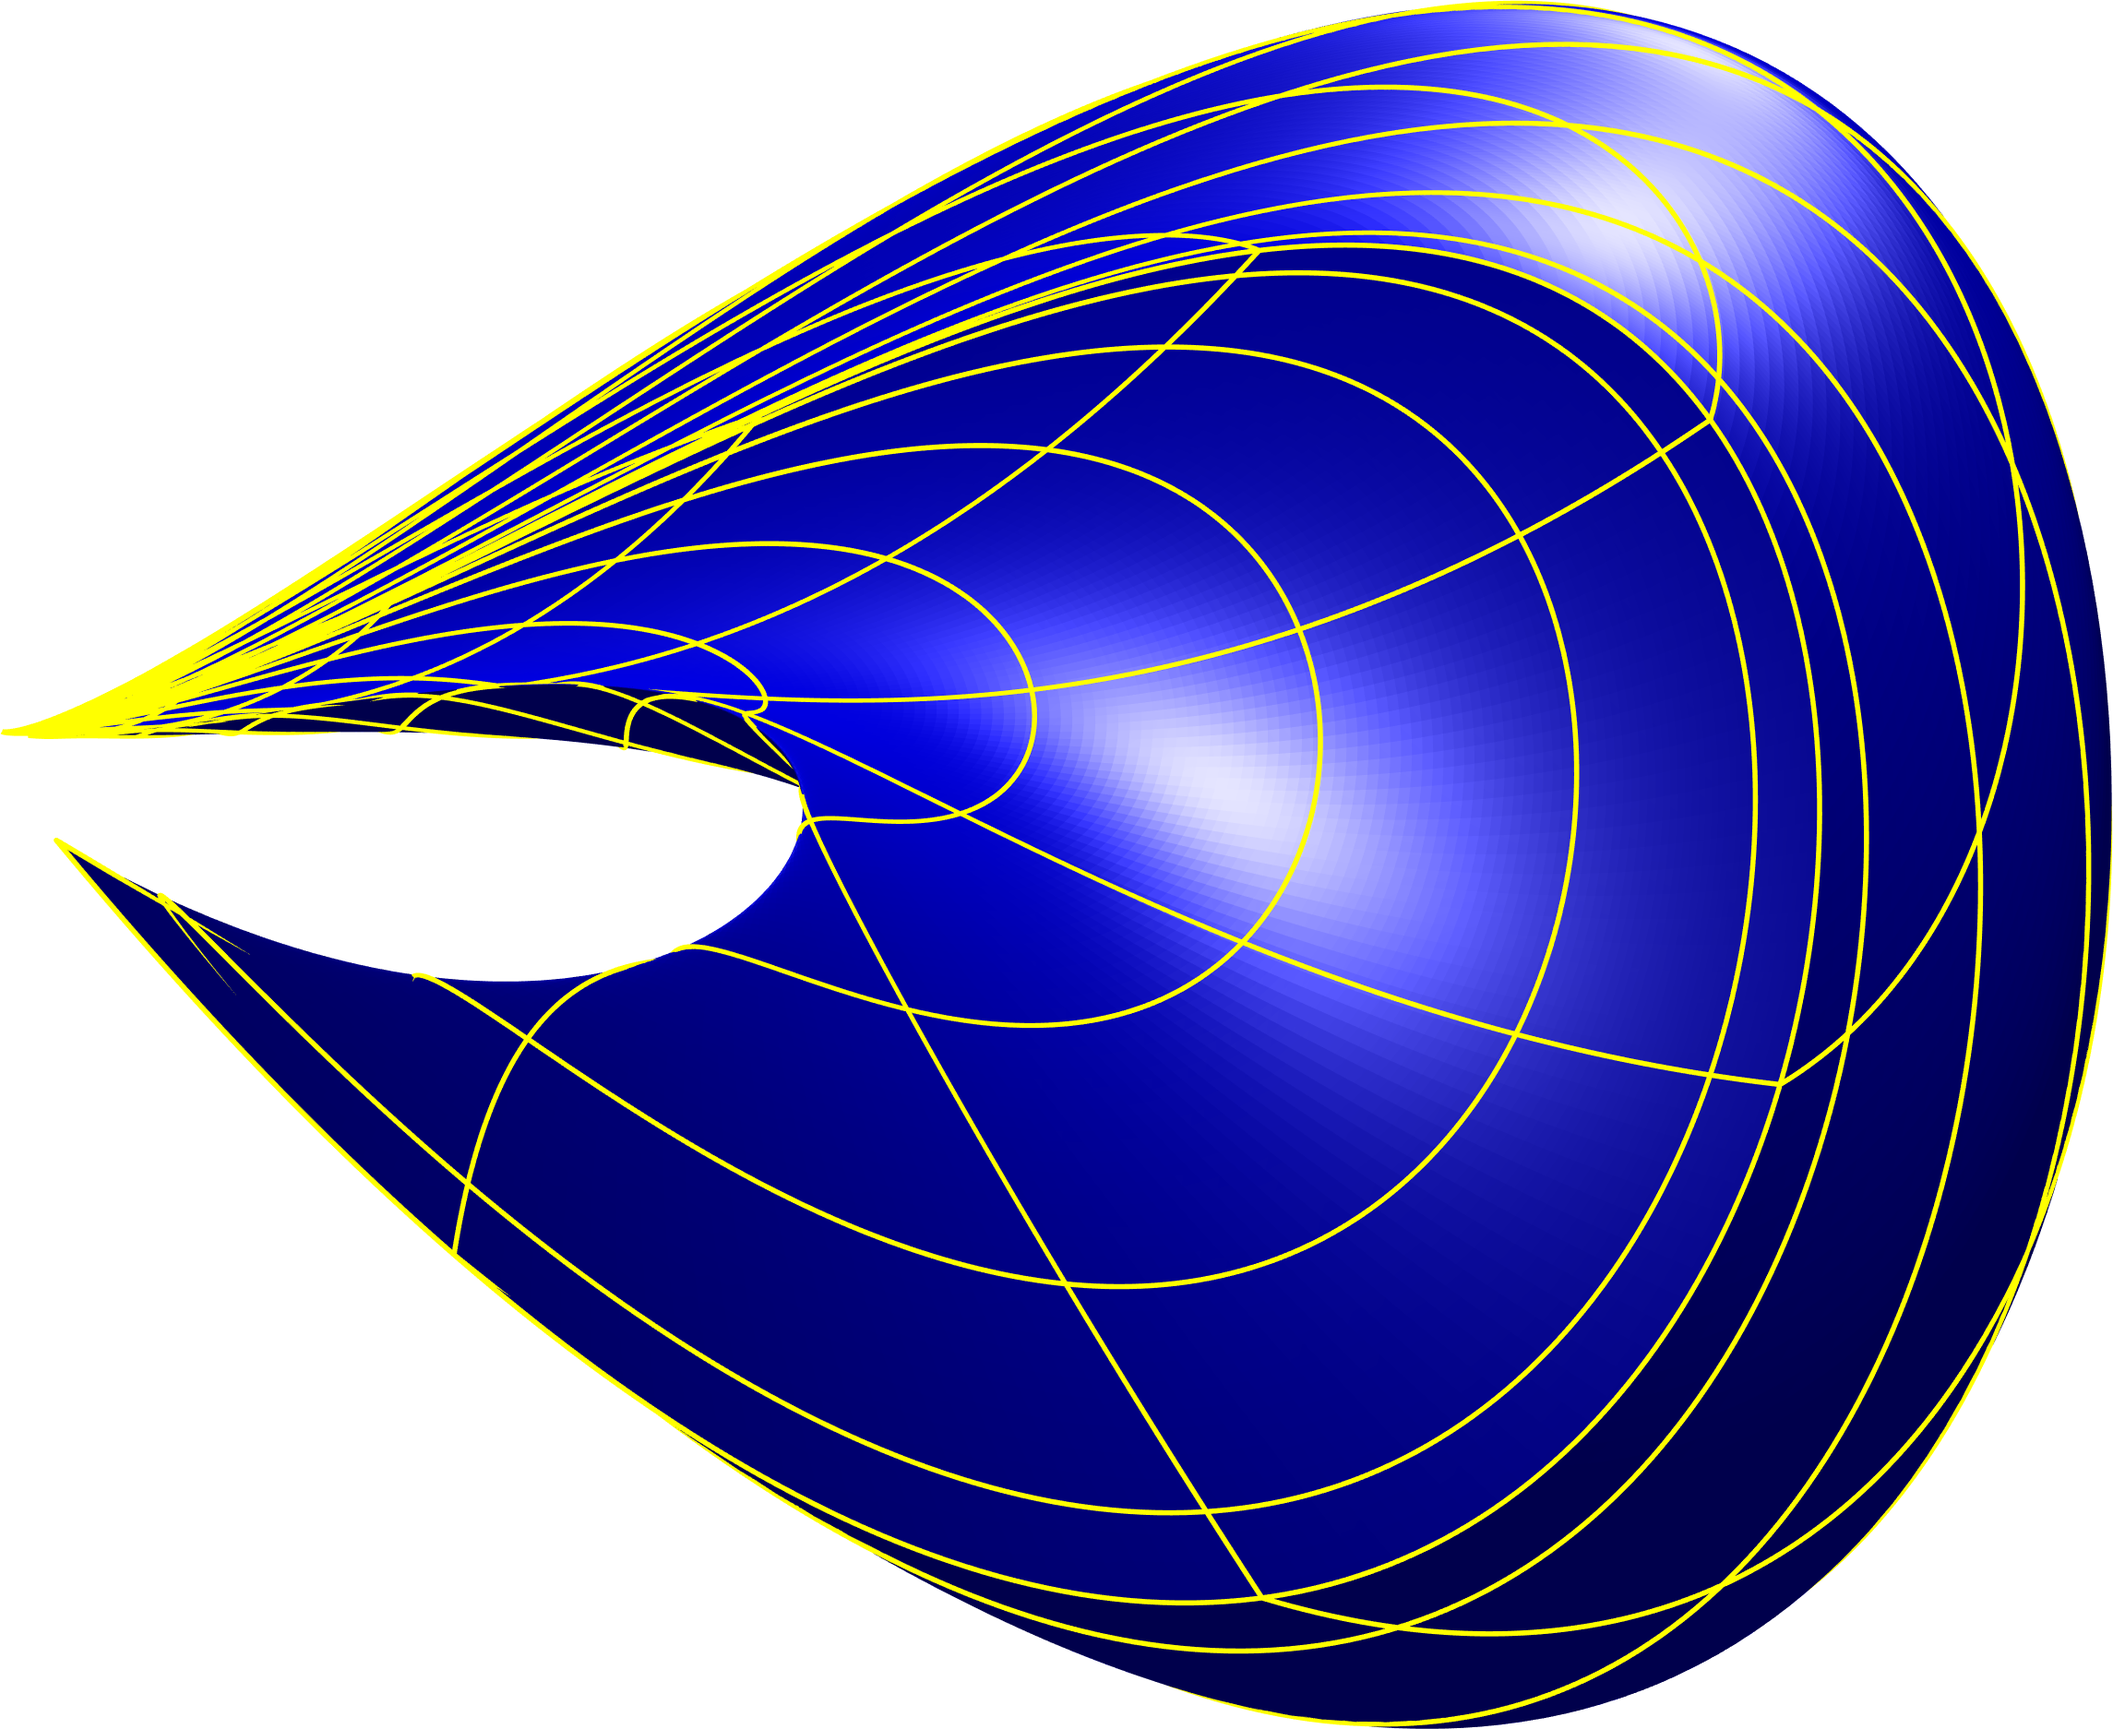
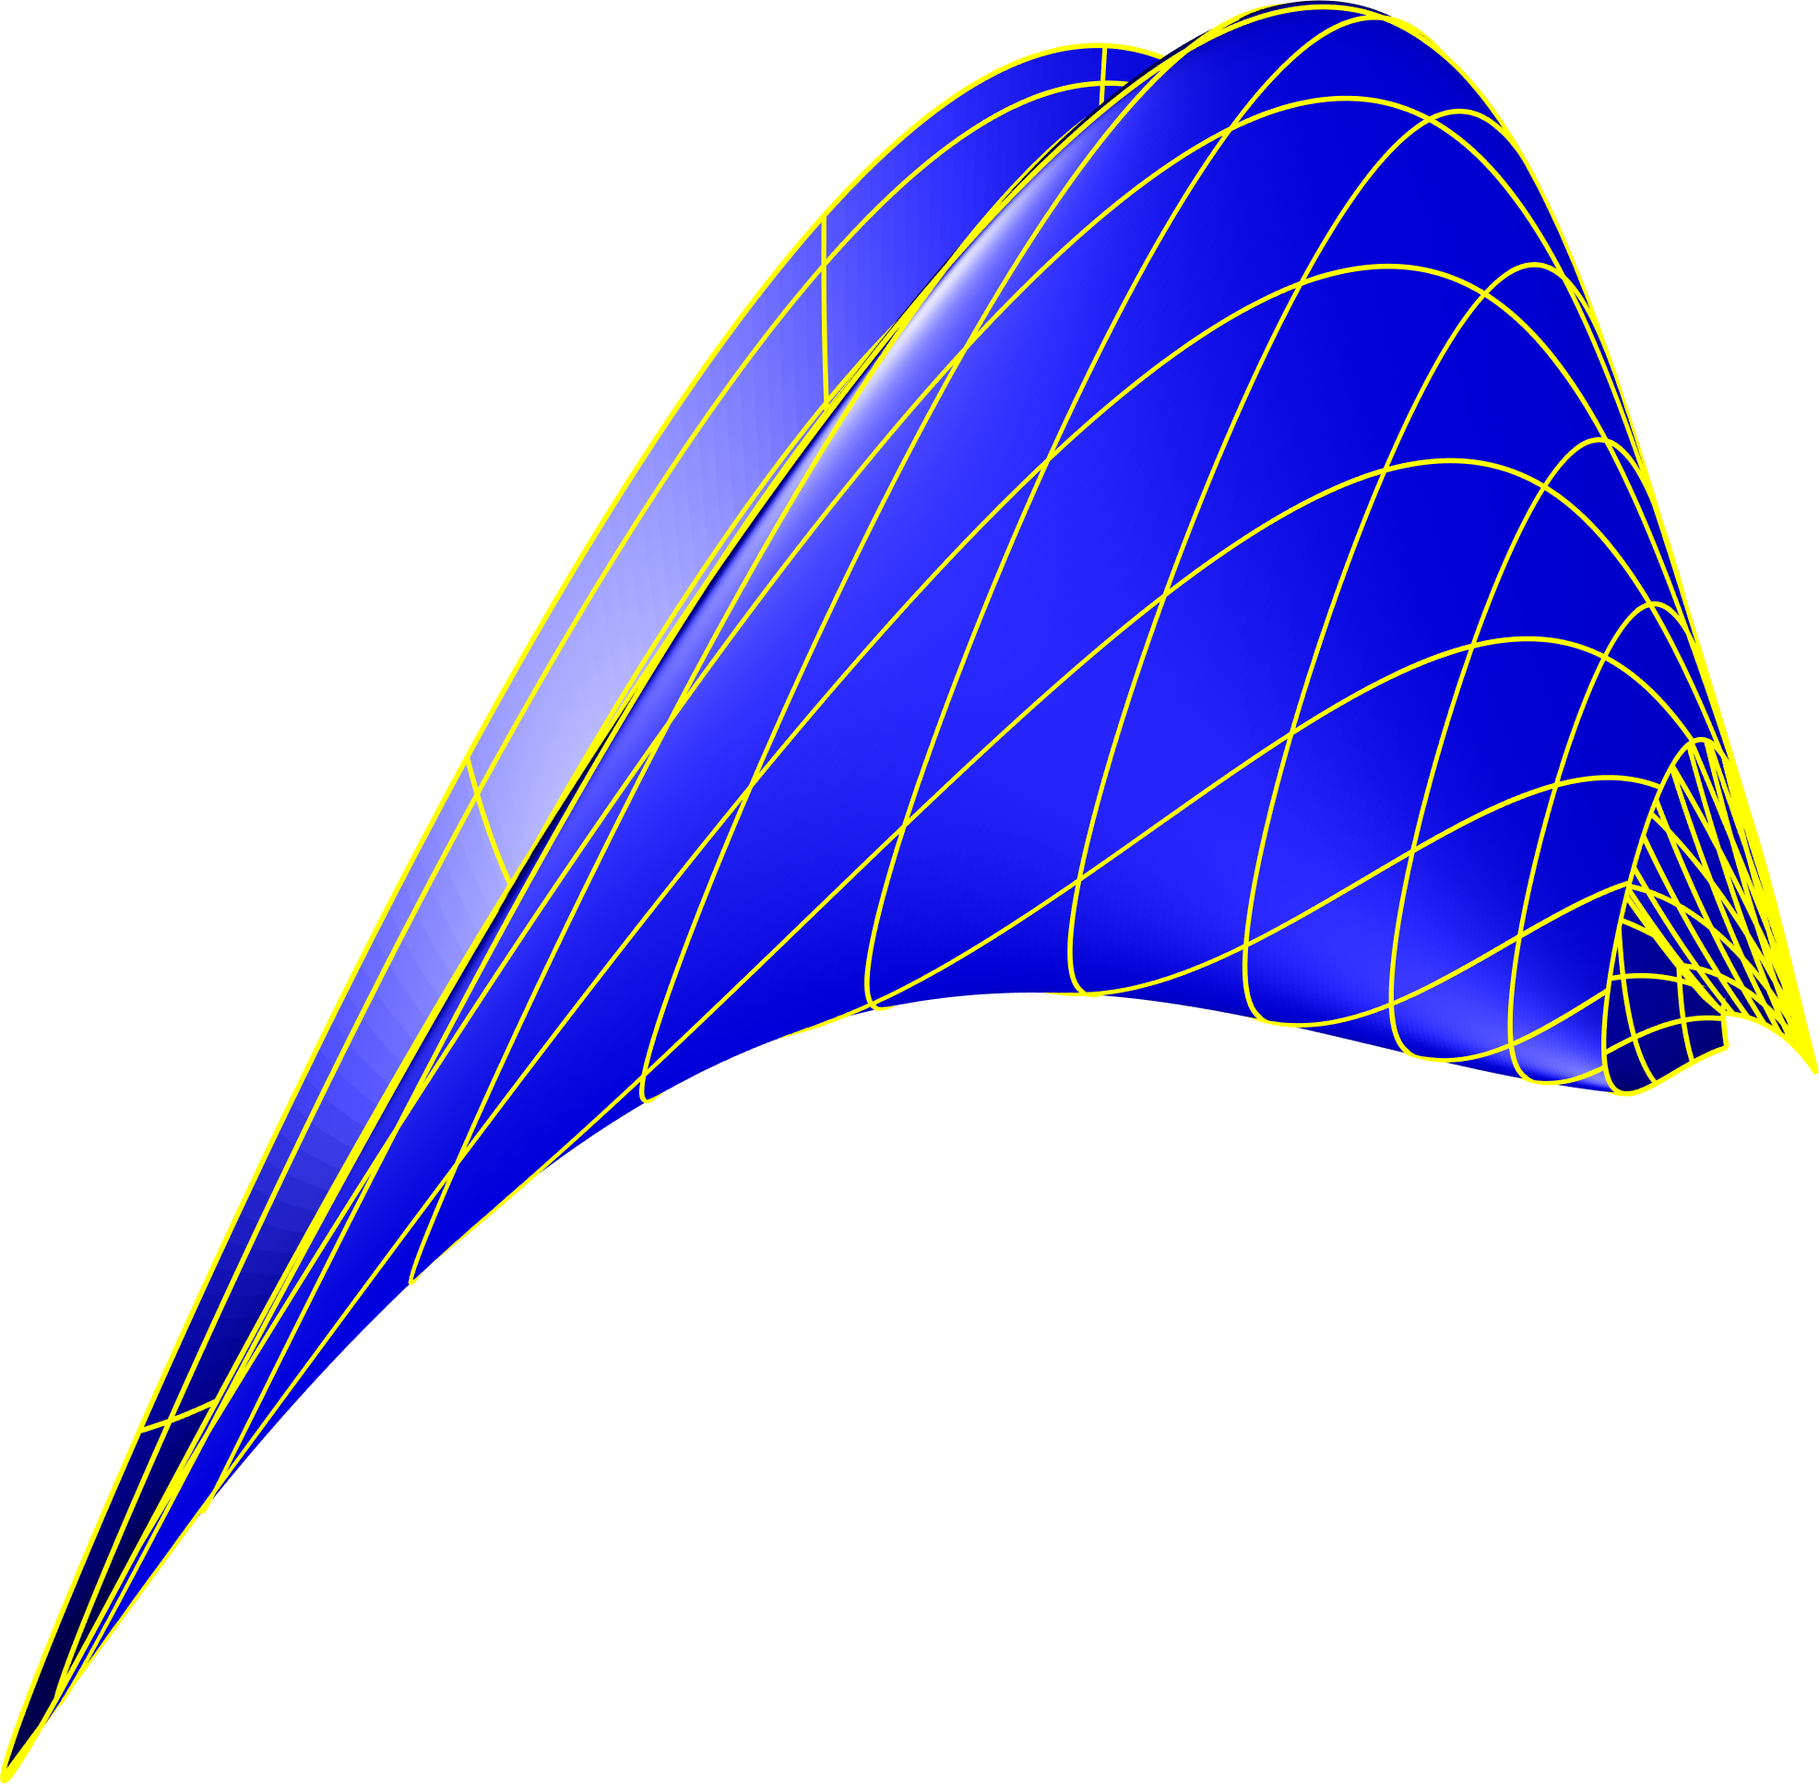
Similarity and E(2) done

diff --git a/paper/newpaper.tex b/paper/newpaper.tex
@@ -124,7 +124,12 @@ where $\bar{x}_x = \frac{\partial \varphi_1}{\partial x}(x, y)$, et cetera. %It 
 %translations, E(2), Sim(2), SA(2), A(2), PSL(2,C), PSL(3,R), Diff\_con, Diff\_vol, Diff
 \subsection{Example signatures}
 
-In this paper our aim is develop the mathematical underpinnings of constructing differential invariant signatures for images under the action of planar Lie groups. However, as we develop the signature for each group, we will provide an example of the type of surface that the signature defines. Note that these will generally be three-dimensional representation of the planar image. 
+In this paper our aim is develop the mathematical underpinnings of
+constructing differential invariant signatures for images under the action
+of planar Lie groups. However, as we develop the signature for each group,
+we will provide an example of the type of surface that the signature
+defines. Note that these will generally be three-dimensional representation
+of the planar image. 
 
 The image we use is defined on $[-1,1] \times [-1,1]$ to be:
 
@@ -134,9 +139,9 @@ f(x, y) = \exp(-2x^2 - 4\sin^2(y + 0.5x^2))
 
 The function is depicted as a greyscale image in Figure~\ref{fig:function}.
 On the left the image itself is shown, while on the right a version with a
-regular grid superimposed is given. This is useful for visualising both the
-transformation and how the image is mapped into the three-dimensional
-signature surface.
+regular grid superimposed is given. We will use this function throughout,
+using the grid to help visualise both the transformation and how the image
+is mapped into the three-dimensional signature surface. 
 
 \begin{figure}
   \centering
@@ -162,16 +167,19 @@ spatial derivatives. These three quantities can be used as coordinates in a
 new space, where the two image points will correspond. Computing these
 coordinates for all image points will define a surface in the new
 three-dimensional space, and the two images will produce the same surface,
-which we call the signature. 
+which we call the signature, $\mathcal{I}(f)(x, y) = \left(I_1, I_2,
+I_3\right)$ where $I_1 = f, I_2 = f_x, I_3 = f_y$.
 
 Figure~\ref{fig:T2} shows (a) the original image, (b) the translated image
 under the transformation $(x,y) \mapsto (x + 0.1, y - 0.2)$, (c) the
 signature of one of them, (d) the superimposed pair of signatures. The
 yellow lines in (c) correspond to where the yellow grid from (a) has been
-mapped to on the signature surface. In (d), notice that as some of the
-image has moved out of frame, there are parts of the signature near its
-boundary that do not overlap.
-
+mapped to on the signature surface. The parts of the surface where the mesh
+gets close together are where the function and its derivatives are tending
+towards zero. This occurs around the boundary of our test image and so all
+of these points are close together in the signature space. In (d), notice
+that as some of the image has moved out of frame, there are parts of the
+signature surfaces of the two images that do not overlap.
 
 \begin{figure}
   \centering
@@ -188,7 +196,6 @@ boundary that do not overlap.
   image (before translation). (d) the signature after the
   translation superimposed.}\label{fig:T2}
 \end{figure}
-
 
 \subsection{Relevant Literature}
 
@@ -246,14 +253,23 @@ SURF and that kind of crap
 \section{Differential invariants through tensor contraction}
 \label{sec:contraction}
 
-While we avoid the use of tensors in most of this study, there is a notable exception to be made for the Euclidean transformation group $E(2)$. In this setting we can restrict ourselves to \emph{Cartesian tensors}, where we need make no distinction between covariance and contravariance as they are equivalent. We therefore use subscript indices exclusively.
+While we avoid the use of tensors in most of this study, there is a notable
+exception to be made for the Euclidean transformation group $E(2)$. In this
+setting we can restrict ourselves to \emph{Cartesian tensors}, where we
+need make no distinction between covariance and contravariance as they are
+equivalent. We therefore use subscript indices exclusively.
 
 In this setting, a Euclidean transformation acting on $\mathbb{R}^2$ is given
 by an expression of the form:
 \begin{equation*}
   \bar{x}_i = a_{ij}x_j + b_j,
 \end{equation*}
-using the Einstein summation convention. The orthogonality condition is that $a_{ik}a_{jk} = a_{ki}a_{kj} = \delta_{ij}$.
+using the Einstein summation convention. The orthogonality condition is
+that $a_{ik}a_{jk} = a_{ki}a_{kj} = \delta_{ij}$. A Euclidean
+transformation $\varphi \colon \mathbb{R}^2 \to \mathbb{R}^2$ can also be
+written in matrix form as $\bar{\mathbf{x}} = \varphi(\mathbf{x}) =
+U\mathbf{x} + \mathbf{t}$ where the matrix $U$ satisfies $U^TU = I$ and
+$\mathbf{t} \in \mathbb{R}^2$.
 
 With respect to $\mathbb{R}^2$, a Cartesian tensor of rank $p$, or $p$-tensor is a $2^p$-tuple of real numbers $C_{i_1\ldots i_p}$ whose components transform under a Euclidean transformation as:
 \begin{equation*}
@@ -261,30 +277,34 @@ With respect to $\mathbb{R}^2$, a Cartesian tensor of rank $p$, or $p$-tensor is
 \end{equation*}
 and a $0$-tensor is a scalar, or invariant. 
 
-The main observation is that in this setting, the $n^\text{th}$ order partial derivative operator $\partial^n / \partial_{x_{i_1}}\cdots \partial_{x_{i_n}}$ formally transforms as an $n$-tensor~\cite{Florack1993}. Because the product of a $p$-tensor and a $q$-tensor gives a $(p+q)$-tensor and contraction of a $p$-tensor yields a $(p-2)$-tensor, a complete contraction of a tensor of even rank formed as a product of terms of the form $\partial^p f / \partial_{x_{i_1}} \cdots \partial_{x_{i_p}}$ will give a Euclidean invariant.
+The main observation is that in this setting, the $n^\text{th}$ order
+partial derivative operator $\partial^n / \partial_{x_{i_1}}\cdots
+\partial_{x_{i_n}}$ formally transforms as an $n$-tensor, \citep{Florack1993}. Because the product of a $p$-tensor and a $q$-tensor gives a $(p+q)$-tensor and contraction of a $p$-tensor yields a $(p-2)$-tensor, a complete contraction of a tensor of even rank formed as a product of terms of the form $\partial^p f / \partial_{x_{i_1}} \cdots \partial_{x_{i_p}}$ will give a Euclidean invariant.
 
 For example, up to second derivatives, we have the following Euclidean invariants, expressed as tensor contractions:
-\begin{align*}
-  f &= f \\
-  f_if_i &= f_x^2 + f_y^2 \\
-  f_{ii} &= f_{xx} + f_{yy} \\
-  f_{ij} f_{ij} &= f_{xx}^2 + 2f_{xy}^2 + f_{yy}^2 \\
-  f_i f_j f_{ij} &= f_x^2 f_{xx} + 2f_x f_y f_{xy} + f_y^2 f_{yy}
-\label{eq:se2}
-\end{align*}
+\begin{equation}
+\label{eq:e2tensor}
+\begin{aligned}
+  I_0 &= f = f \\
+  I_1 &= f_if_i = f_x^2 + f_y^2 \\
+  I_2 &= f_{ii} = f_{xx} + f_{yy} \\
+  I_3 &= f_{ij} f_{ij} = f_{xx}^2 + 2f_{xy}^2 + f_{yy}^2 \\
+  I_4 &= f_i f_j f_{ij} = f_x^2 f_{xx} + 2f_x f_y f_{xy} + f_y^2 f_{yy}
+\end{aligned}
+\end{equation}
 
-While we can construct any number of invariants this way, there is no guarantee of functional independence between them. We will address this issue in Section~\ref{sec:movingframes} when we construct invariants of $E(2)$ and other groups using the method of moving frames.
-
-SE(2): rotation, Sim(2): zooming.
-
-\begin{figure}
-\centering
-\includegraphics[width=.45\textwidth]{Figs/f_transformed_SE2.png}
-\includegraphics[width=.45\textwidth]{Figs/SE2_signature.png}
-\caption{A sample $SE(2)$ Transform and 3D signature.}
-\label{fig:SE2}
-\end{figure}
-
+While we can construct any number of invariants this way, there is no
+guarantee of functional independence between them. We will address this
+issue in Section~\ref{sec:movingframes} when we construct invariants of
+$E(2)$ and other groups using the method of moving frames. We can form a
+signature from any three of these invariants \eqref{eq:e2tensor}, we choose for
+simplicity our signature to be 
+\begin{equation}
+    \label{eq:e2signature}
+    \mathcal{I}_{E(2)} = (I_0, I_1, I_2)
+\end{equation}.  
+A sample $E(2)$ transformation is depicted in Fig.~\ref{fig:E2} with its corresponding
+signature.
 \begin{figure}
 \centering
 \includegraphics[width=.45\textwidth]{Figs/f_transformed_E2.png}
@@ -292,6 +312,53 @@ SE(2): rotation, Sim(2): zooming.
 \caption{A sample $E(2)$ Transform and 3D signature.}
 \label{fig:E2}
 \end{figure}
+We will defer discussion of the Special Euclidean group (which excludes
+reflections) until Section~\ref{sec:SE2} where invariants naturally arise
+from the method of moving frames.
+
+\subsection{The similarity group}
+\label{sec:Sim2}
+The similarity group $\text{Sim}(2)$ consists transformations of the form
+$\bar{\mathbf{x}} = \varphi(\mathbf{x}) = sU\mathbf{x} + \mathbf{t}$, where $U^TU = I$ and $s
+\in \mathbb{R}\setminus\{0\}$. It is like the Euclidean group except it
+also allows for isotropic scaling. In image applications, similarity
+transformations arise from operations like zooming.
+
+Under similarity transformations, the Euclidean invariants become
+/emph{relative invariants}. Each derivative introduces a multiple of $s$ to
+each invariant. For example, $\bar{f}_{\bar x}^2 + \bar{f}_{\bar y}^2 =
+s^2(f_x^2 + f_y^2)$ and $\bar{f}_{\bar x \bar x}^2 + 2\bar{f}_{\bar x \bar
+y}^2 + \bar{f}_{\bar y \bar y} = s^4 (f_{xx}^2 + 2f_{xy}^2 + f_{yy}^2$). We
+refer to the power of $s$ as the weight of the transformation. 
+
+One way to produce similarity invariants would be to take ratios of powers
+of the Euclidean invariants \eqref{eq:e2tensor} so that the multiples of
+$s$ cancel. For example $\frac{f_x^2 + f_y^2}{f_{xx} + f_{yy}}$ is the
+ratio of two weight-2 relative invariants and is hence a similarity
+invariant. However this invariant is singular whenever $f_{xx} + f_{yy} =
+0$ which is a codimension-0 phenomenon for images. 
+
+A better approach is to take three invariants of the same weight, we'll
+take $I_1^2$, $I_2^2$, and $I_3$ from \eqref{eq:e2tensor}, all of which are
+weight $4$, and project them onto the unit sphere. This can then be
+multiplied by $I_0 = f$ to form a signature surface. So our signature is
+defined by
+\begin{equation}
+    \label{eq:sim2signature}
+\mathcal{I}_{\text{Sim(2)}}(f) = \frac{f}{\sqrt{I_1^4 + I_2^4 + I_3^2}}(I_1^2, I_2^2,
+        I_3)
+\end{equation}
+This signature is only singular when $f_x = f_y = f_{xx} = f_{yy} = f_{xy}
+= 0$. A sample similarity transformation and computed signature is shown in
+Fig.~\ref{fig:Sim2}
+\begin{figure}
+\centering
+\includegraphics[width=.45\textwidth]{Figs/f_transformed_Sim2.png}
+\includegraphics[width=.45\textwidth]{Figs/Sim2_signature.png}
+\caption{A sample $\text{Sim}(2)$ Transform and 3D signature.}
+\label{fig:Sim2}
+\end{figure}
+
 
 
 \section{Differential invariants through transvectants}
@@ -644,6 +711,7 @@ Cartan normalisation can be considered as identifying a canonical subspace (with
 Olver uses the group $SE(2)$ on curves as an example~\cite{OlverCIT}, recovering the Euclidean curvature as a second-order invariant. We continue this example to compute invariants to $SE(2)$ for images, before moving on to other planar Lie group examples: $E(2)$, the M\"obius group ($PSL(2,\mathbb{C})$) and the projective group ($PSL(3,\mathbb{R})$). Finally, we apply the method to an infinite-dimensional pseudo-Lie group, the conformal diffeomorphisms.
 
 \subsection{The Special Euclidean Group SE(2)}
+\label{sec:SE2}
 
 An element of the special Euclidean group $SE(2)$ acts on an element $(x, y)$ of $\mathbb{R}^2$ to produce $(\bar{x}, \bar{y})$ as:
 \begin{equation*}
@@ -705,6 +773,13 @@ all invariant. This gives the following set of invariants:
 Note that we multiplied each of the second derivative invariants by $I_1$
 so that they would decay smoothly to zero at critical points. 
 
+\begin{figure}
+\centering
+\includegraphics[width=.45\textwidth]{Figs/f_transformed_SE2.png}
+\includegraphics[width=.45\textwidth]{Figs/SE2_signature.png}
+\caption{A sample $SE(2)$ Transform and 3D signature.}
+\label{fig:SE2}
+\end{figure}
 \subsection{The Euclidean Group E(2)}
 An element of the Euclidean group $E(2)$ maps an element $(x, y)$ of
 $\mathbb{R}^2$ to $(\bar{x}, \bar{y})$ as:
